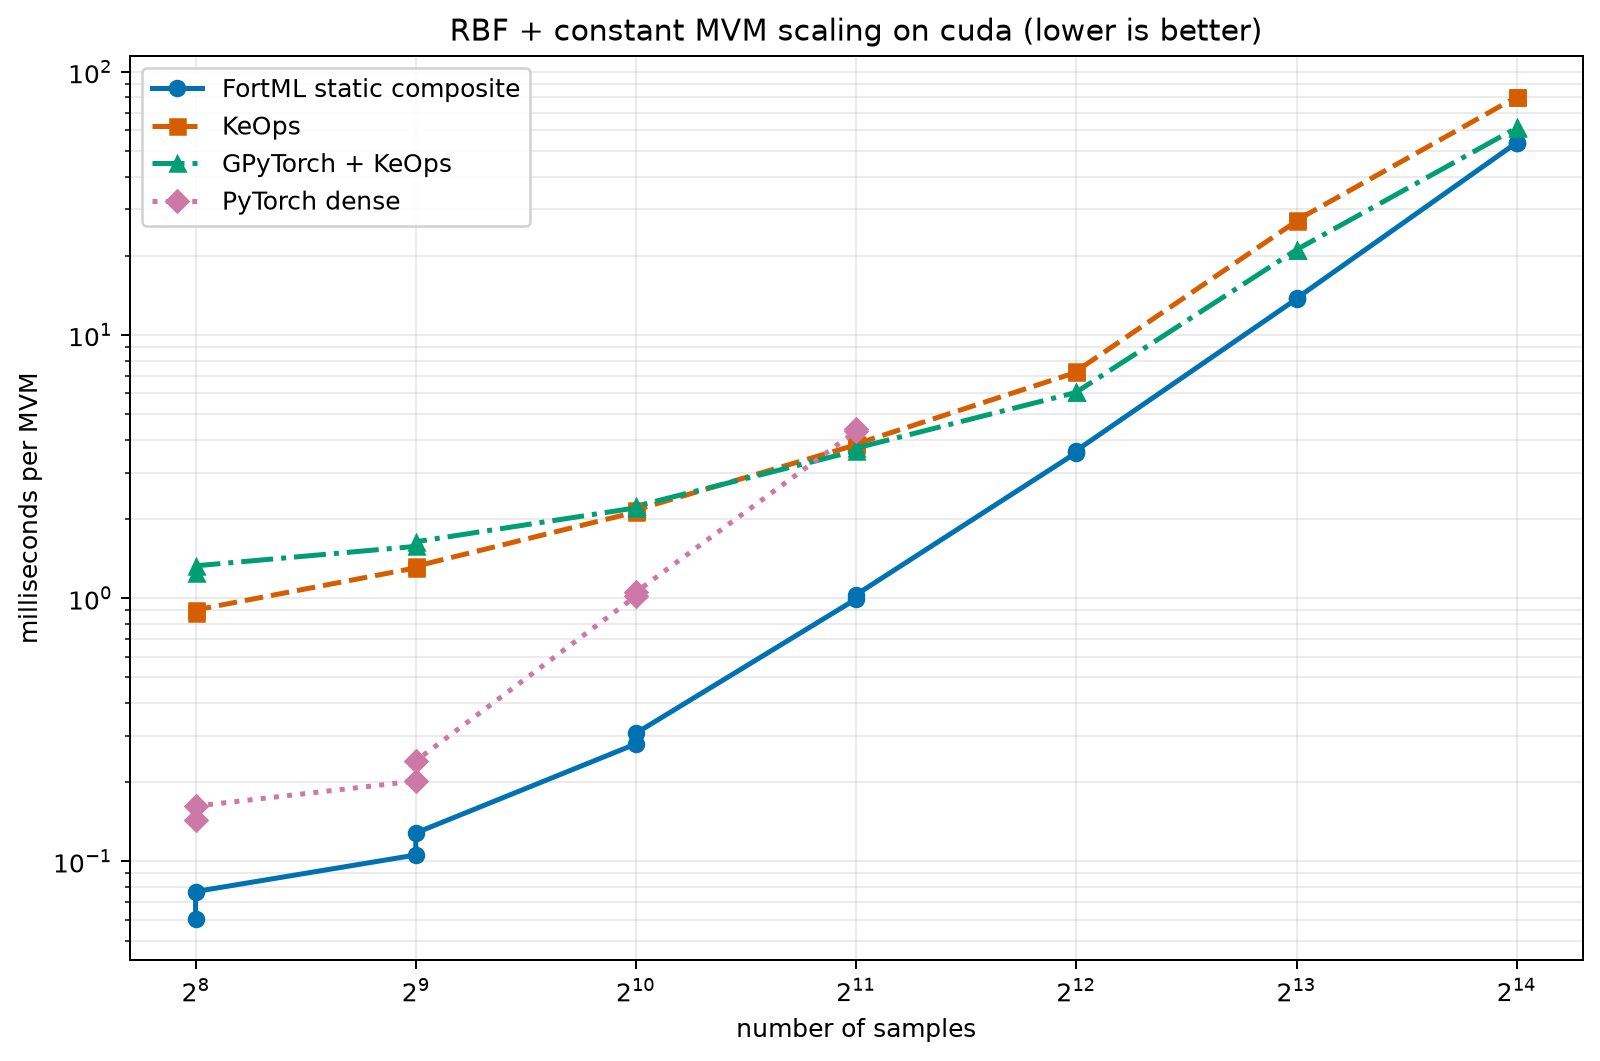
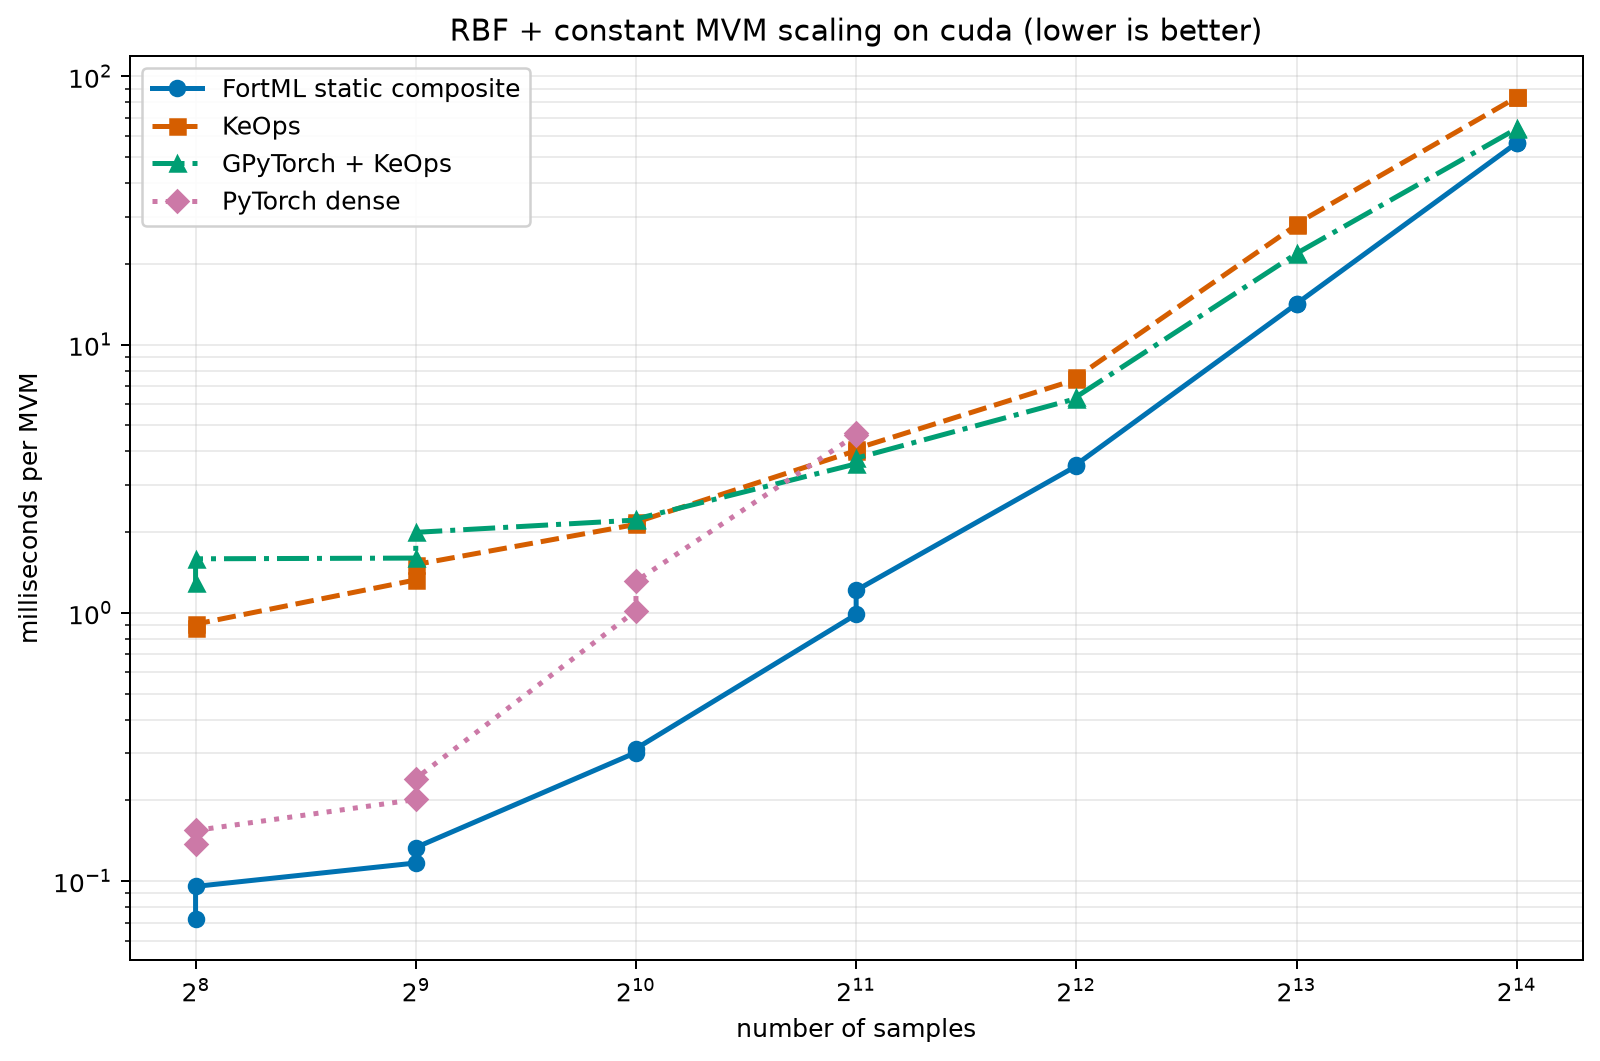
Record generic CUDA composite scaling evidence

diff --git a/results/OPERATION_PROFILE.md b/results/OPERATION_PROFILE.md
@@ -14,7 +14,7 @@ nvfortran -O3 -acc, Nsight Systems, and NV_ACC_TIME over 12 MVMs.
 | Dense PyTorch | sub -> pow -> sum -> scale -> exp -> addmv | Materializes an N x N x D difference tensor and N x N intermediates, then launches separate elementwise, reduction, exponential, and matrix-vector work. |
 | KeOps | A generated GenredAutograd map-reduce, exposed on CUDA as GpuConv1DOnDevice | Fuses distance, exponential, multiply, and reduction into a custom tiled kernel without an N x N result. |
 | GPyTorch + KeOps | GPyTorch KernelLinearOperator.matmul around the same KeOps map-reduce | Keeps the matrix-free KeOps kernel, but adds operator dispatch, parameter transforms, copies, and stream synchronization. |
-| fortml | One fused reduction for each output row, with two output rows assigned to worker lanes in the eight-feature path, one exponential, and an OpenMP/OpenACC reduction over neighbors | Does not materialize pairwise storage. CPU uses a static outer-row schedule and SIMD neighbor reduction. nvfortran launches one kernel per MVM with sample-major point storage. Neighbor points are still reloaded for each output row. |
+| fortml | One fused reduction for each output row, with two output rows assigned to worker lanes in the eight-feature path, one exponential, and an OpenMP/OpenACC reduction over neighbors | Does not materialize pairwise storage. CPU uses a static outer-row schedule and SIMD neighbor reduction. nvfortran launches one kernel per MVM with sample-major point storage. The static composite lane lowers its postfix program once into a resident generic CUDA plan and reuses that plan across MVMs. |
 
 For this workload, each exact MVM evaluates 1,048,576 pairs. The Fortran
 hot loop therefore performs eight coordinate differences and eight squares per
@@ -63,9 +63,12 @@ The neighbor loop consequently loaded each feature with an eight-sample
 stride for this workload. The operator now stores samples contiguously and
 the inner neighbor index is unit stride. The eight-feature path also uses
 explicit multiplies instead of scalar power expressions. The current source
-is fortml commit `81b0655`. The optional native bridge adds a linked CUDA
+is fortml commit `5ff3d80`. The optional native bridge adds a linked CUDA
 kernel with shared neighbor storage while leaving the OpenACC path as the
-default comparison backend.
+default comparison backend for the specialized RBF workload. The static
+composite workload uses the generic CUDA plan ABI. Its independent C++ test
+covers composite matvec and two-RHS matmat, and the scaling CSV records the
+plan as the resident CUDA implementation.
 
 The remaining structural differences are deliberate optimization targets:
 
@@ -91,4 +94,7 @@ Fortran reduction order. Their observed relative errors were about 2e-15 and
 Raw Python operation tables are
 [operation_profile_cpu.csv](operation_profile_cpu.csv) and
 [operation_profile_cuda.csv](operation_profile_cuda.csv). The reproducible
-commands are scripts/profile_python_ops.py and scripts/profile_rbf_mvm.sh.
+commands are scripts/profile_python_ops.py and scripts/profile_rbf_mvm.sh. The
+Fortran profiler now links both the specialized RBF CUDA object and the generic
+kernel-plan object, so future operation traces cannot silently omit the ABI used
+by the composite benchmark.

diff --git a/PROVENANCE.md b/PROVENANCE.md
@@ -21,18 +21,22 @@ must pass before a timing is written to the CSV.
 
 ## Composite run (2026-08-06)
 
-The KeOps-style static composite run uses fortml `76c94d4` and fortnum
-`73e8965`, eight features, float64, variance 1.4, lengthscale 0.7, constant
+The KeOps-style static composite run uses fortml `5ff3d80` and fortnum
+`c5bea47`, eight features, float64, variance 1.4, lengthscale 0.7, constant
 variance 0.2, and diagonal shift 0.08. It evaluates the RBF-plus-constant
 formula with a direct blocked NumPy pairwise oracle before timing. Sizes are
-256 through 4096 with five repetitions, extended to 8192 and 16384 with two
+256 through 4096 with five repetitions, extended to 8192 and 16384 with three
 repetitions. The CPU lane uses nvfortran 26.5 with `-O3 -mp=multicore` on 16
 physical cores. The GPU lane uses nvfortran 26.5 with `-O3 -acc` on an NVIDIA
-GeForce RTX 5060 Ti; both resident and transfer-inclusive rows are recorded.
+GeForce RTX 5060 Ti. Both resident and transfer-inclusive rows are recorded.
+Composite GPU rows use fortml's resident generic CUDA kernel plan through the
+opaque C ABI. The plan is created once per benchmark and reused across timed
+MVMs.
 
 The Python lanes use PyTorch 2.13.0+cu130, GPyTorch 1.15.2, and pykeops 2.3.
 The GPyTorch adapter is its KeOps RBF operator plus the same explicit constant
 rank-one term, so the mathematical work matches the Fortran and KeOps lanes.
 All non-OOM rows pass the independent oracle. Dense PyTorch CUDA is retained
 as `oom` at the capacity boundary rather than being silently omitted. The
-optional native CUDA Fortran kernel was separately oracle-checked at N=2048.
+generic CUDA plan was separately checked by a direct C++ pairwise oracle for
+matvec and two-RHS matmat before this sweep.

diff --git a/results/README.md b/results/README.md
@@ -41,6 +41,33 @@ and 7.48 ms for KeOps. On the CPU lane, nvfortran Fortran takes 4.66 ms,
 compared with 6.22 ms for GPyTorch-KeOps and 7.56 ms for KeOps. The Fortran
 curve is lowest at every tested size on both devices.
 
+## Static composite kernel lane
+
+The static RBF-plus-constant lane uses the generic CUDA plan introduced in
+fortml commit `5ff3d80`. Its postfix program is lowered once during residency
+setup, and the timed CUDA MVM reuses the device-resident points and program.
+The same float64 inputs, kernel constants, diagonal shift, and independent
+blocked pairwise oracle are used for every backend. The base sweep has five
+repetitions at 256 through 4,096 samples. The slope extension has three
+repetitions at 8,192 and 16,384 samples. The merged record is
+`composite_mvm_scaling_extended.csv`.
+
+At 16,384 samples, resident CUDA FortML takes 56.68 ms per MVM, compared with
+64.13 ms for GPyTorch-KeOps and 83.61 ms for KeOps. Dense PyTorch is recorded
+as OOM from 8,192 samples. The last two FortML CUDA doublings have slopes 2.00
+and 2.00, which is the expected quadratic matrix-free scaling once launch and
+tile overheads are amortized. CPU placement noise remains visible in the
+extended endpoint, so CPU slope claims use the recorded 16-thread nvfortran
+run without extrapolation.
+
+Composite CPU plot: `composite_mvm_scaling_extended_cpu.png`
+
+https://box.sloppy.at/8b824.png
+
+Composite GPU plot: `composite_mvm_scaling_extended_cuda.png`
+
+https://box.sloppy.at/92846.png
+
 The dense PyTorch CPU curve is a dense-reference measurement. Its implementation
 materializes the full (N 	imes N 	imes D) difference tensor and two
 (N 	imes N) intermediates on every call. At 4,096 samples it takes 349 ms,
